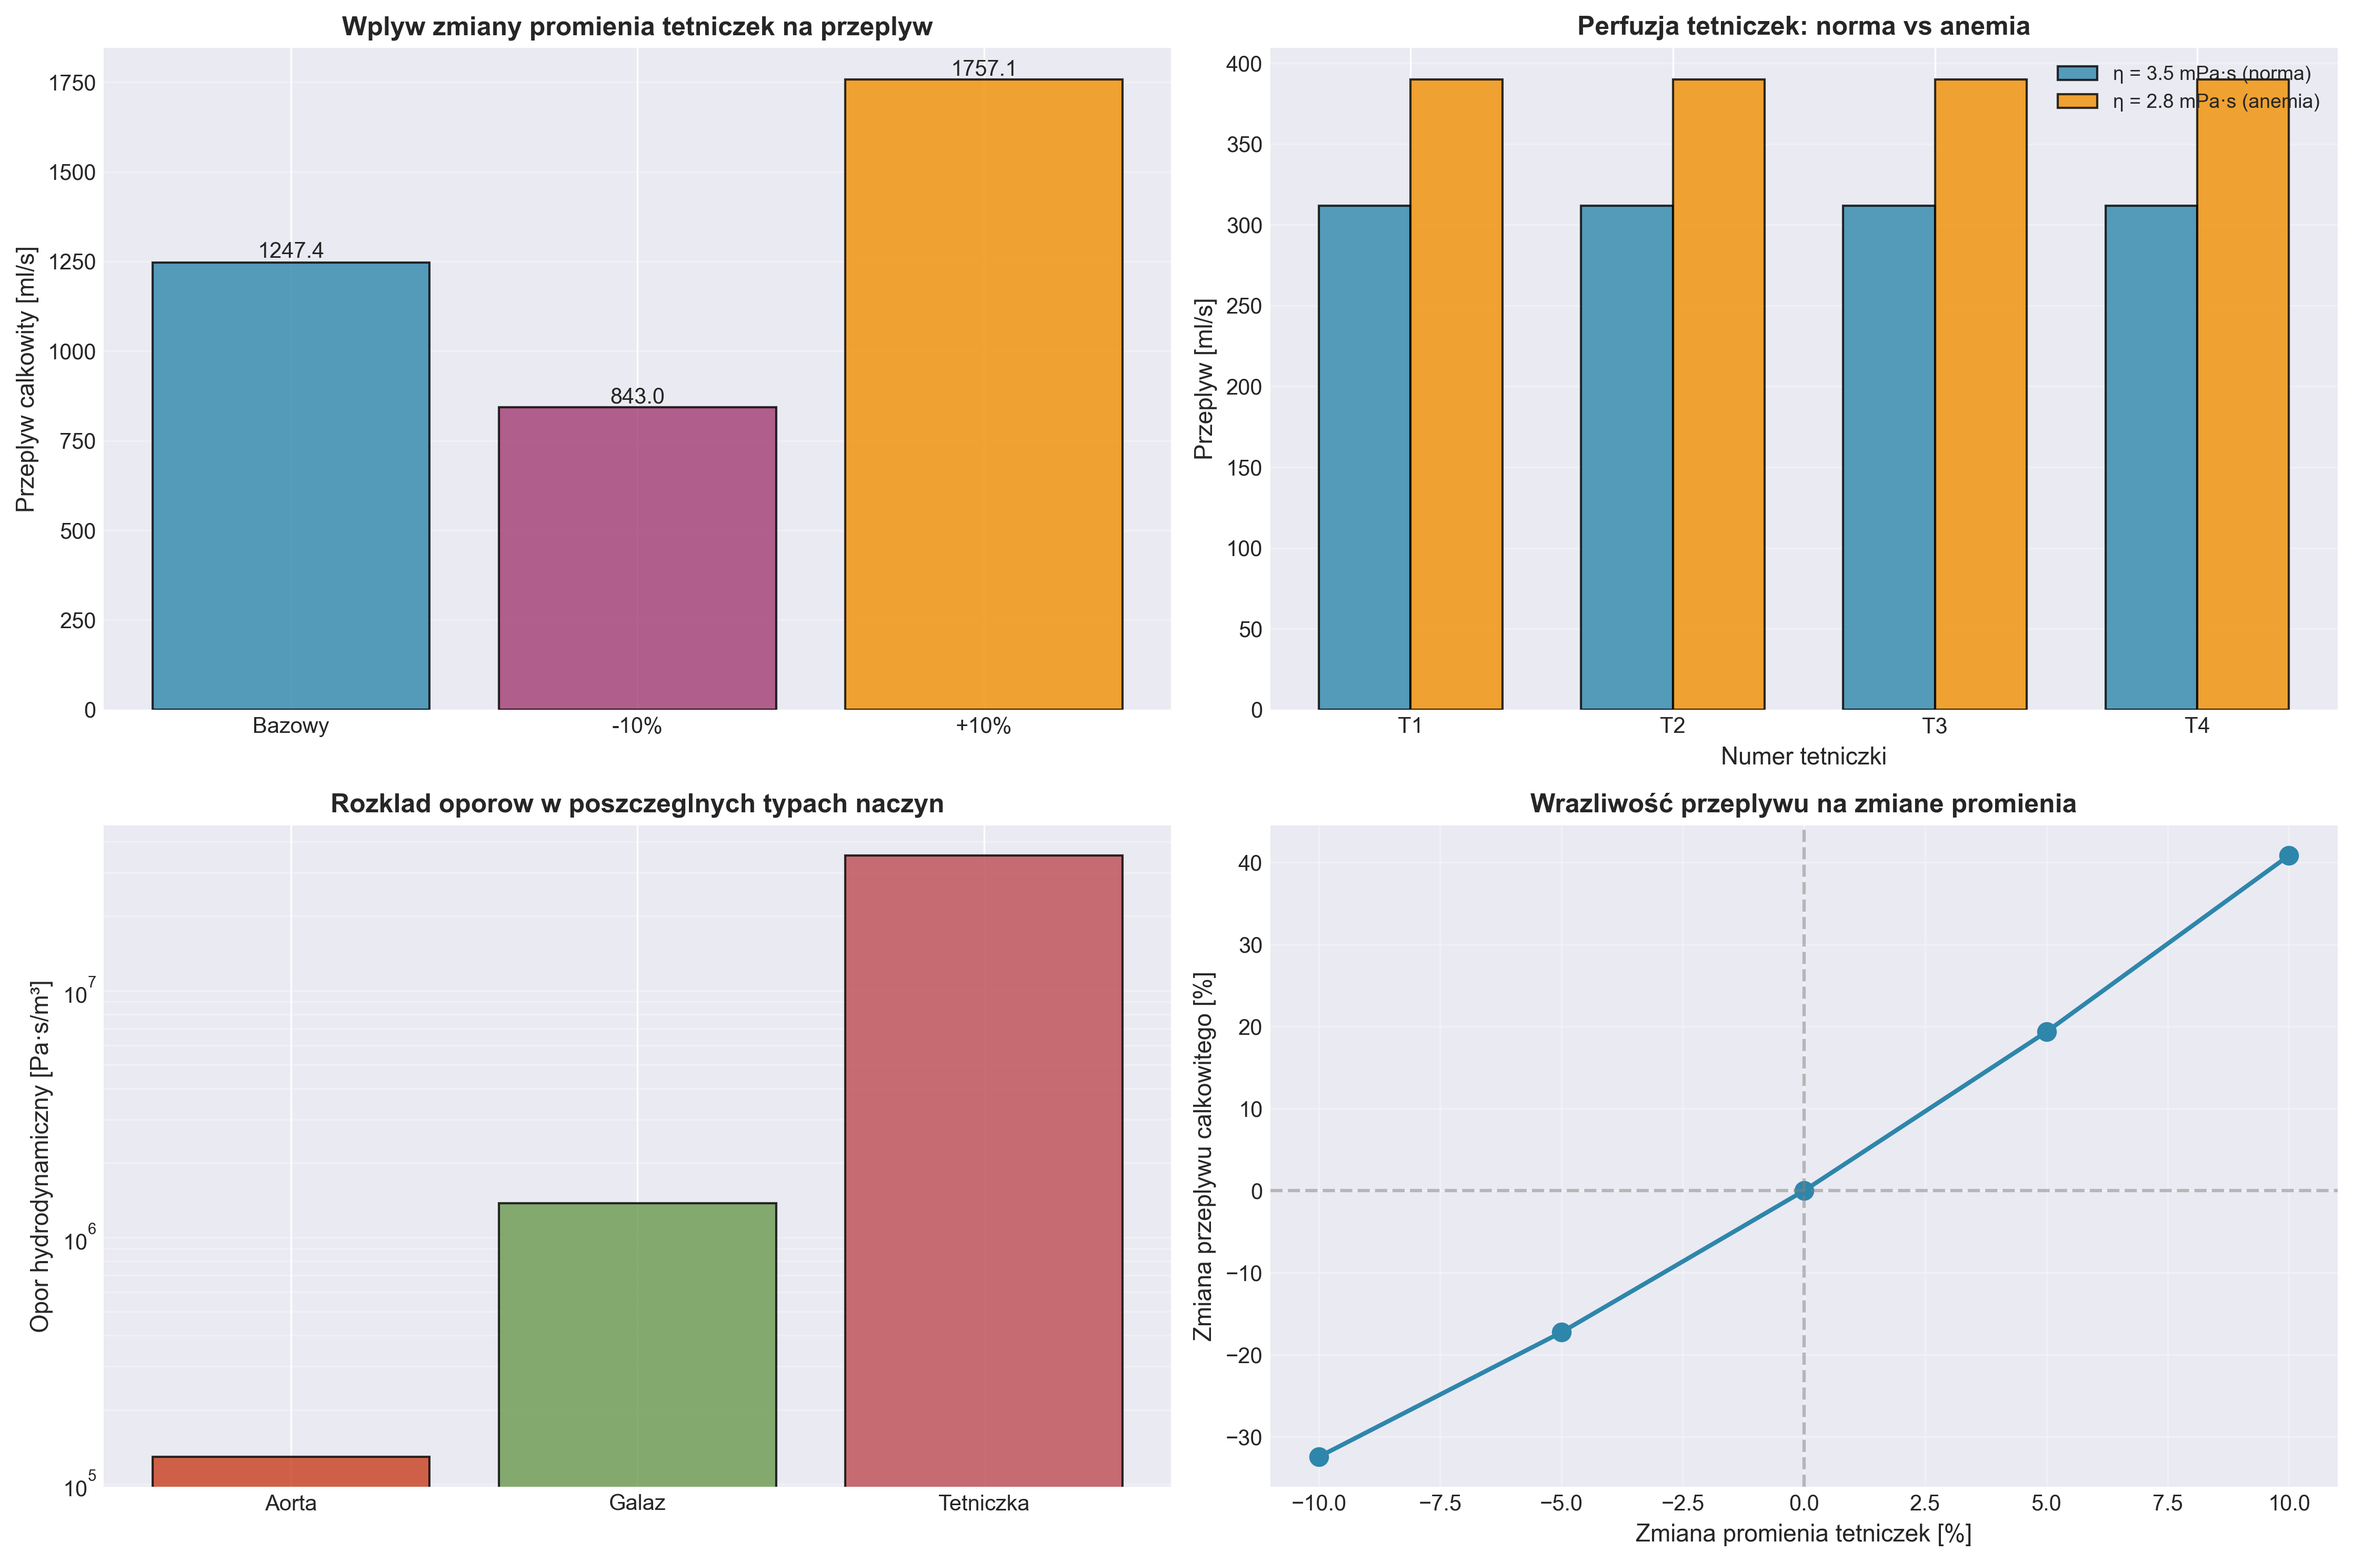
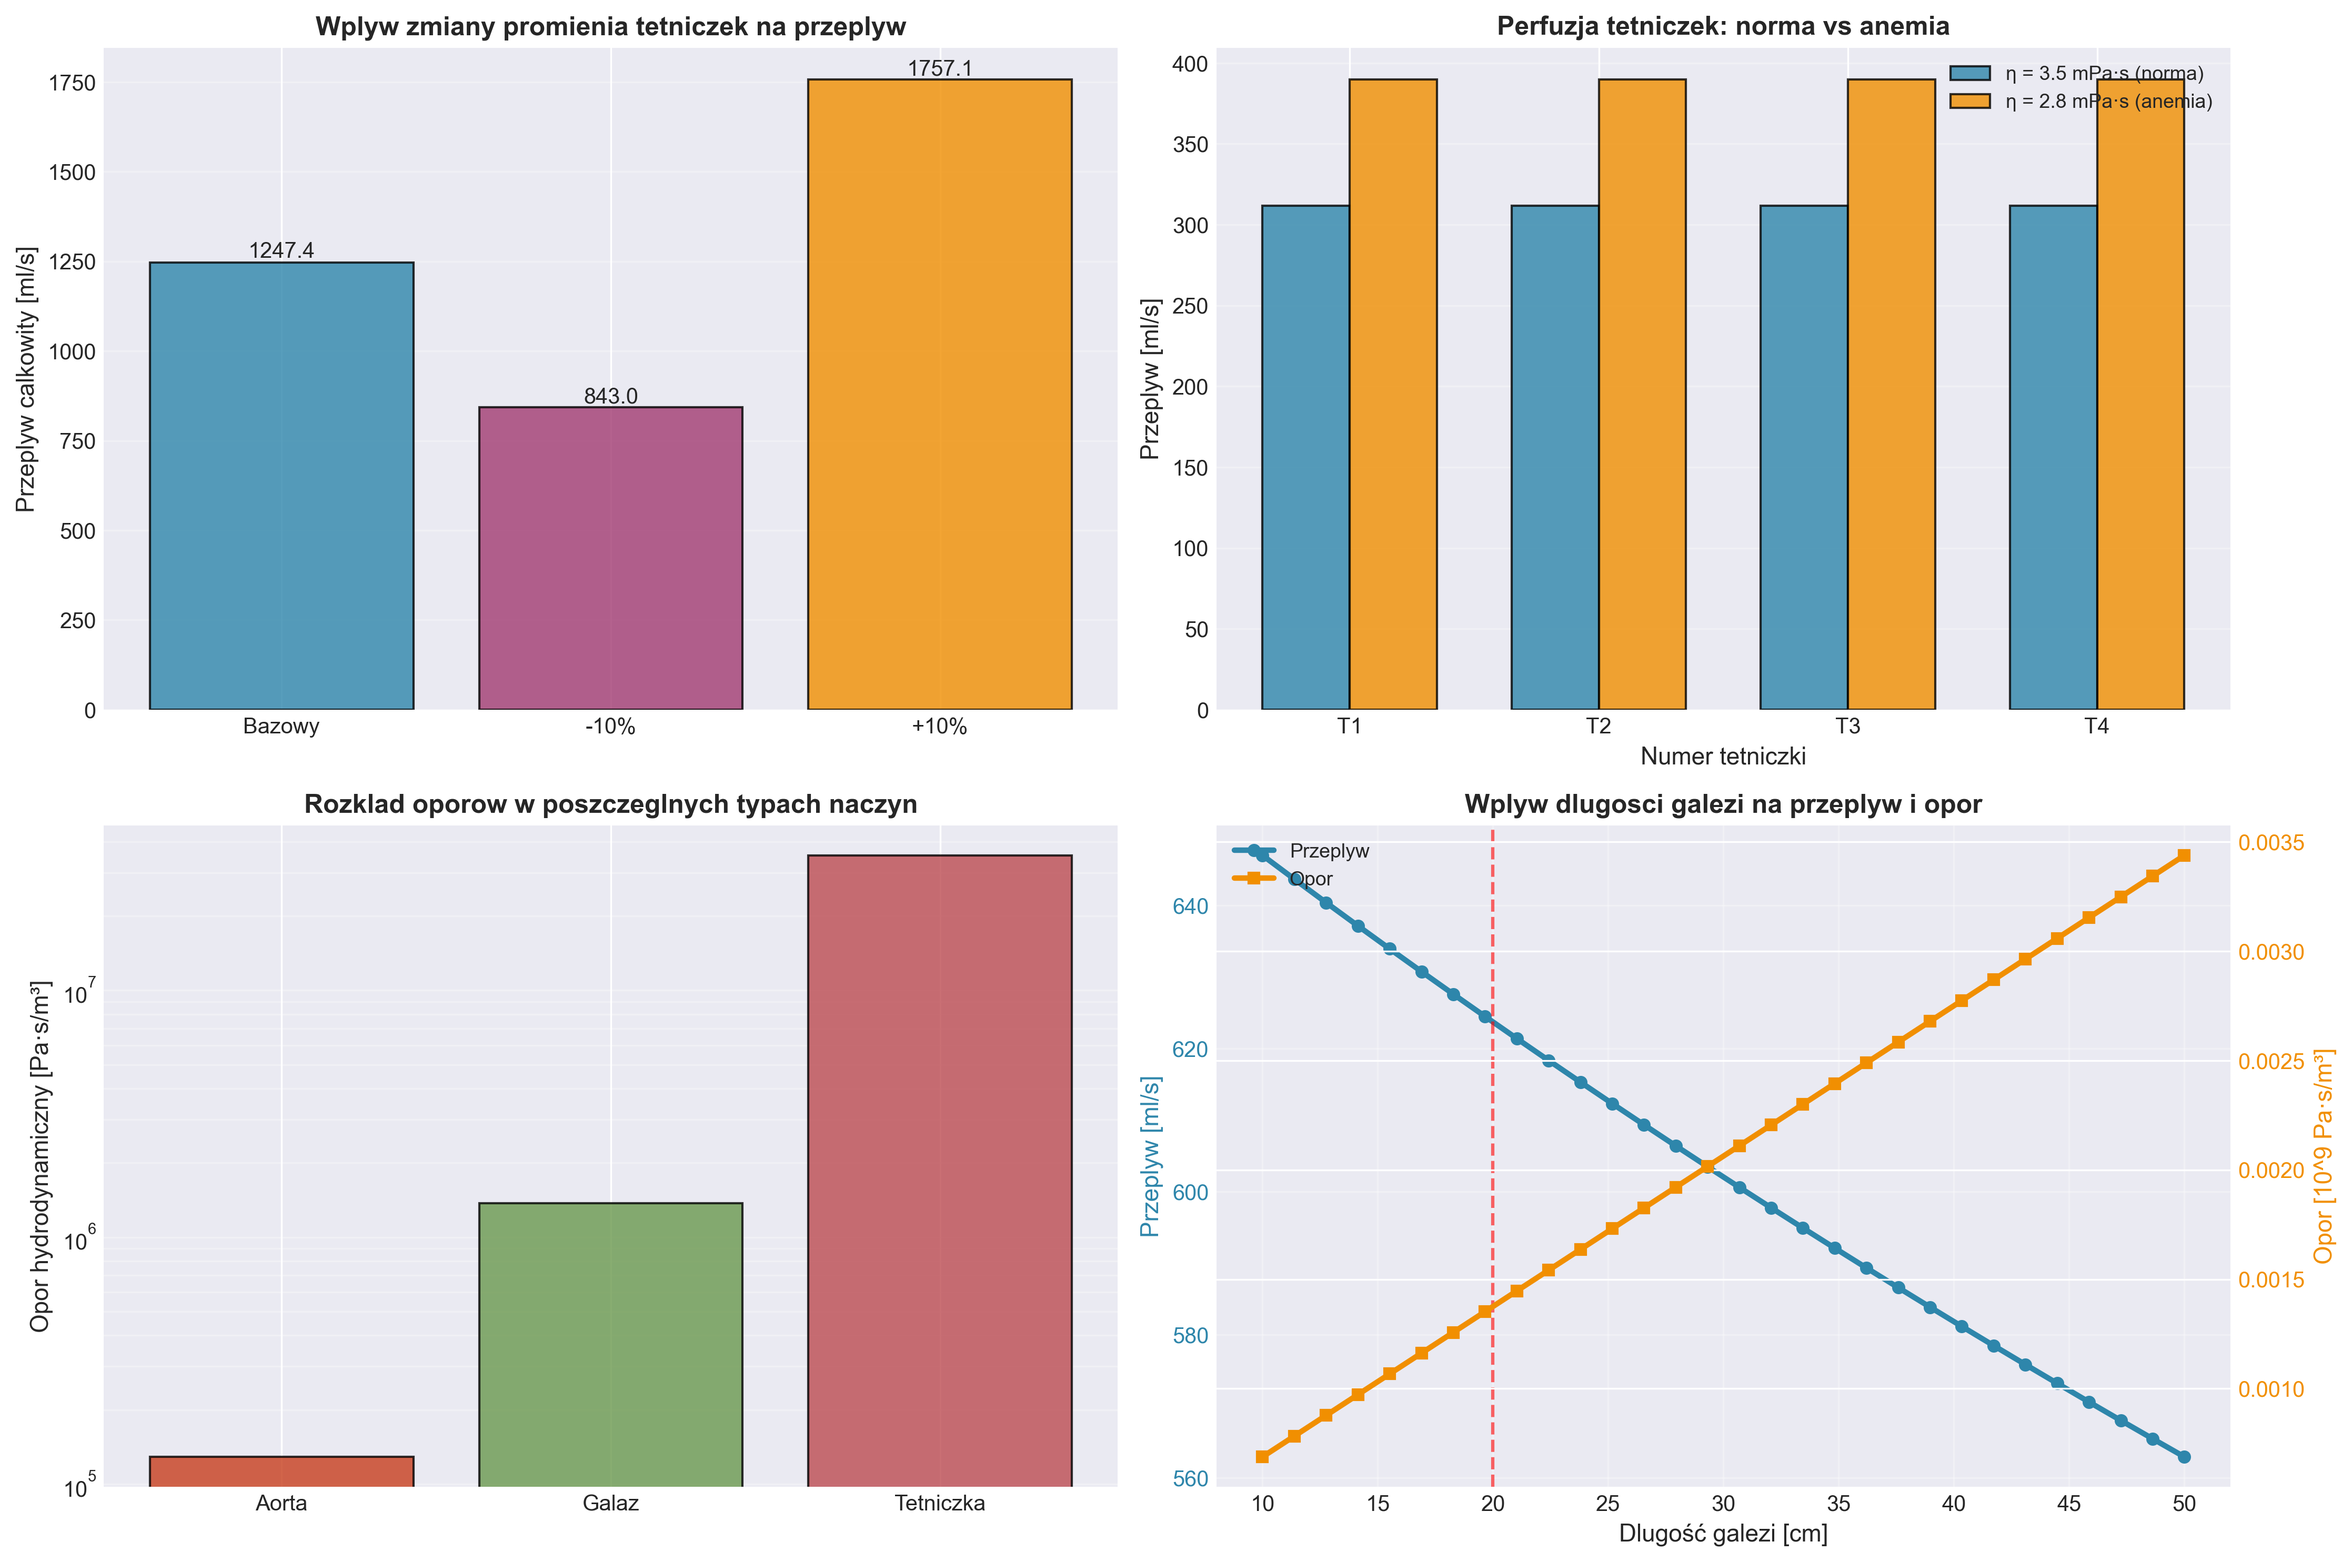
chart update

diff --git a/lab-2/zadania.py b/lab-2/zadania.py
@@ -1,6 +1,5 @@
 import numpy as np
 import matplotlib.pyplot as plt
-import seaborn as sns
 
 ETA = 3.5e-3 # Pa*s
 MMHG = 133.322 # Pa/mmHg
@@ -225,23 +224,35 @@ ax3.set_title('Rozklad oporow w poszczeglnych typach naczyn', fontsize=12, fontw
 ax3.set_yscale('log')
 ax3.grid(axis='y', alpha=0.3, which='both')
 
-# Wzgledna zmiana przeplywu przy zmianie promienia
 ax4 = plt.subplot(2, 2, 4)
-radius_pct = [-10, -5, 0, 5, 10]
-Q_changes = []
-for pct in radius_pct:
-    term_mod = [Vessel(L=t.L, r=t.r * (1 + pct/100), eta=t.eta) for t in term]
-    flows_mod = calculate_flows(aorta, branch1, branch2, term_mod, P_in, P_out)
-    change_pct = ((flows_mod['Q_total'] - flows['Q_total']) / flows['Q_total']) * 100
-    Q_changes.append(change_pct)
+L_values = np.linspace(0.1, 0.5, 30)
+Q_vals = []
+R_vals = []
 
-ax4.plot(radius_pct, Q_changes, 'o-', color='#2E86AB', linewidth=2, markersize=8)
-ax4.axhline(y=0, color='gray', linestyle='--', alpha=0.5)
-ax4.axvline(x=0, color='gray', linestyle='--', alpha=0.5)
-ax4.set_xlabel('Zmiana promienia tetniczek [%]', fontsize=11)
-ax4.set_ylabel('Zmiana przeplywu calkowitego [%]', fontsize=11)
-ax4.set_title('Wrazliwość przeplywu na zmiane promienia', fontsize=12, fontweight='bold')
+for L in L_values:
+    branch_mod = Vessel(L=L, r=0.006, eta=ETA)
+    flows_mod = calculate_flows(aorta, branch_mod, branch2, term, P_in, P_out)
+    Q_vals.append(flows_mod['Q_path1'] * 1e6)
+    R_vals.append(branch_mod.R / 1e9)
+
+ax4_twin = ax4.twinx()
+line1 = ax4.plot(L_values * 100, Q_vals, 'o-', color='#2E86AB', linewidth=2.5, 
+                 markersize=5, label='Przeplyw')
+line2 = ax4_twin.plot(L_values * 100, R_vals, 's-', color='#F18F01', linewidth=2.5, 
+                      markersize=5, label='Opor')
+
+ax4.axvline(x=20, color='red', linestyle='--', alpha=0.6, linewidth=1.5)
+ax4.set_xlabel('Dlugość galezi [cm]', fontsize=11)
+ax4.set_ylabel('Przeplyw [ml/s]', fontsize=11, color='#2E86AB')
+ax4_twin.set_ylabel('Opor [10^9 Pa·s/m³]', fontsize=11, color='#F18F01')
+ax4.set_title('Wplyw dlugosci galezi na przeplyw i opor', fontsize=12, fontweight='bold')
+ax4.tick_params(axis='y', labelcolor='#2E86AB')
+ax4_twin.tick_params(axis='y', labelcolor='#F18F01')
 ax4.grid(True, alpha=0.3)
+
+lines = line1 + line2
+labels = [l.get_label() for l in lines]
+ax4.legend(lines, labels, fontsize=9, loc='upper left')
 
 plt.tight_layout()
 plt.savefig('analiza_przeplywow.png', dpi=300, bbox_inches='tight')

diff --git a/lab-2/README.md b/lab-2/README.md
@@ -1,0 +1,2 @@
+Sprawozdanie
+https://gist.github.com/kubicaszymon/055ea47cd0c930d5f21ca315dec04bca
